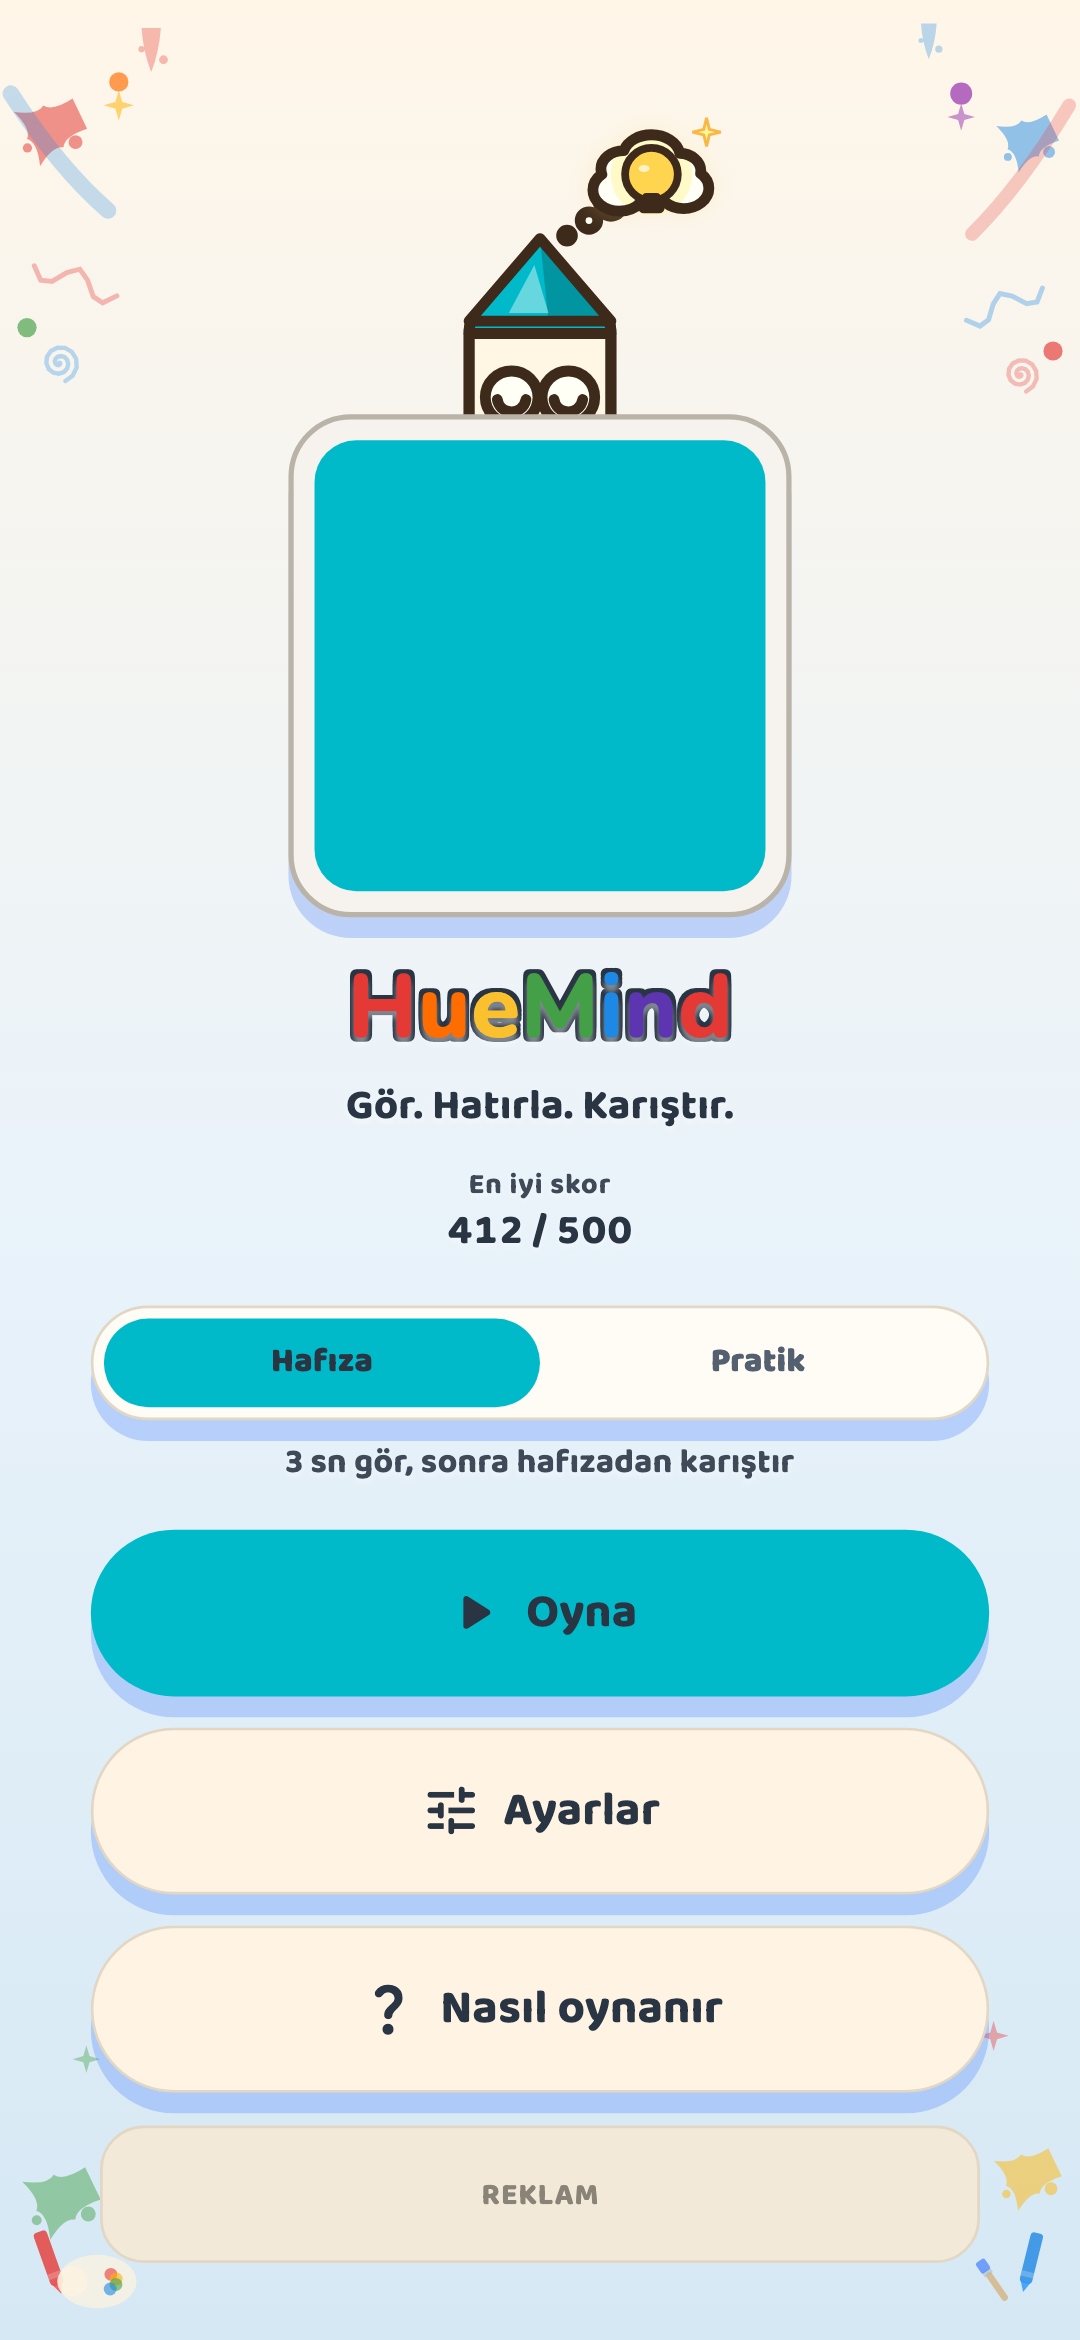
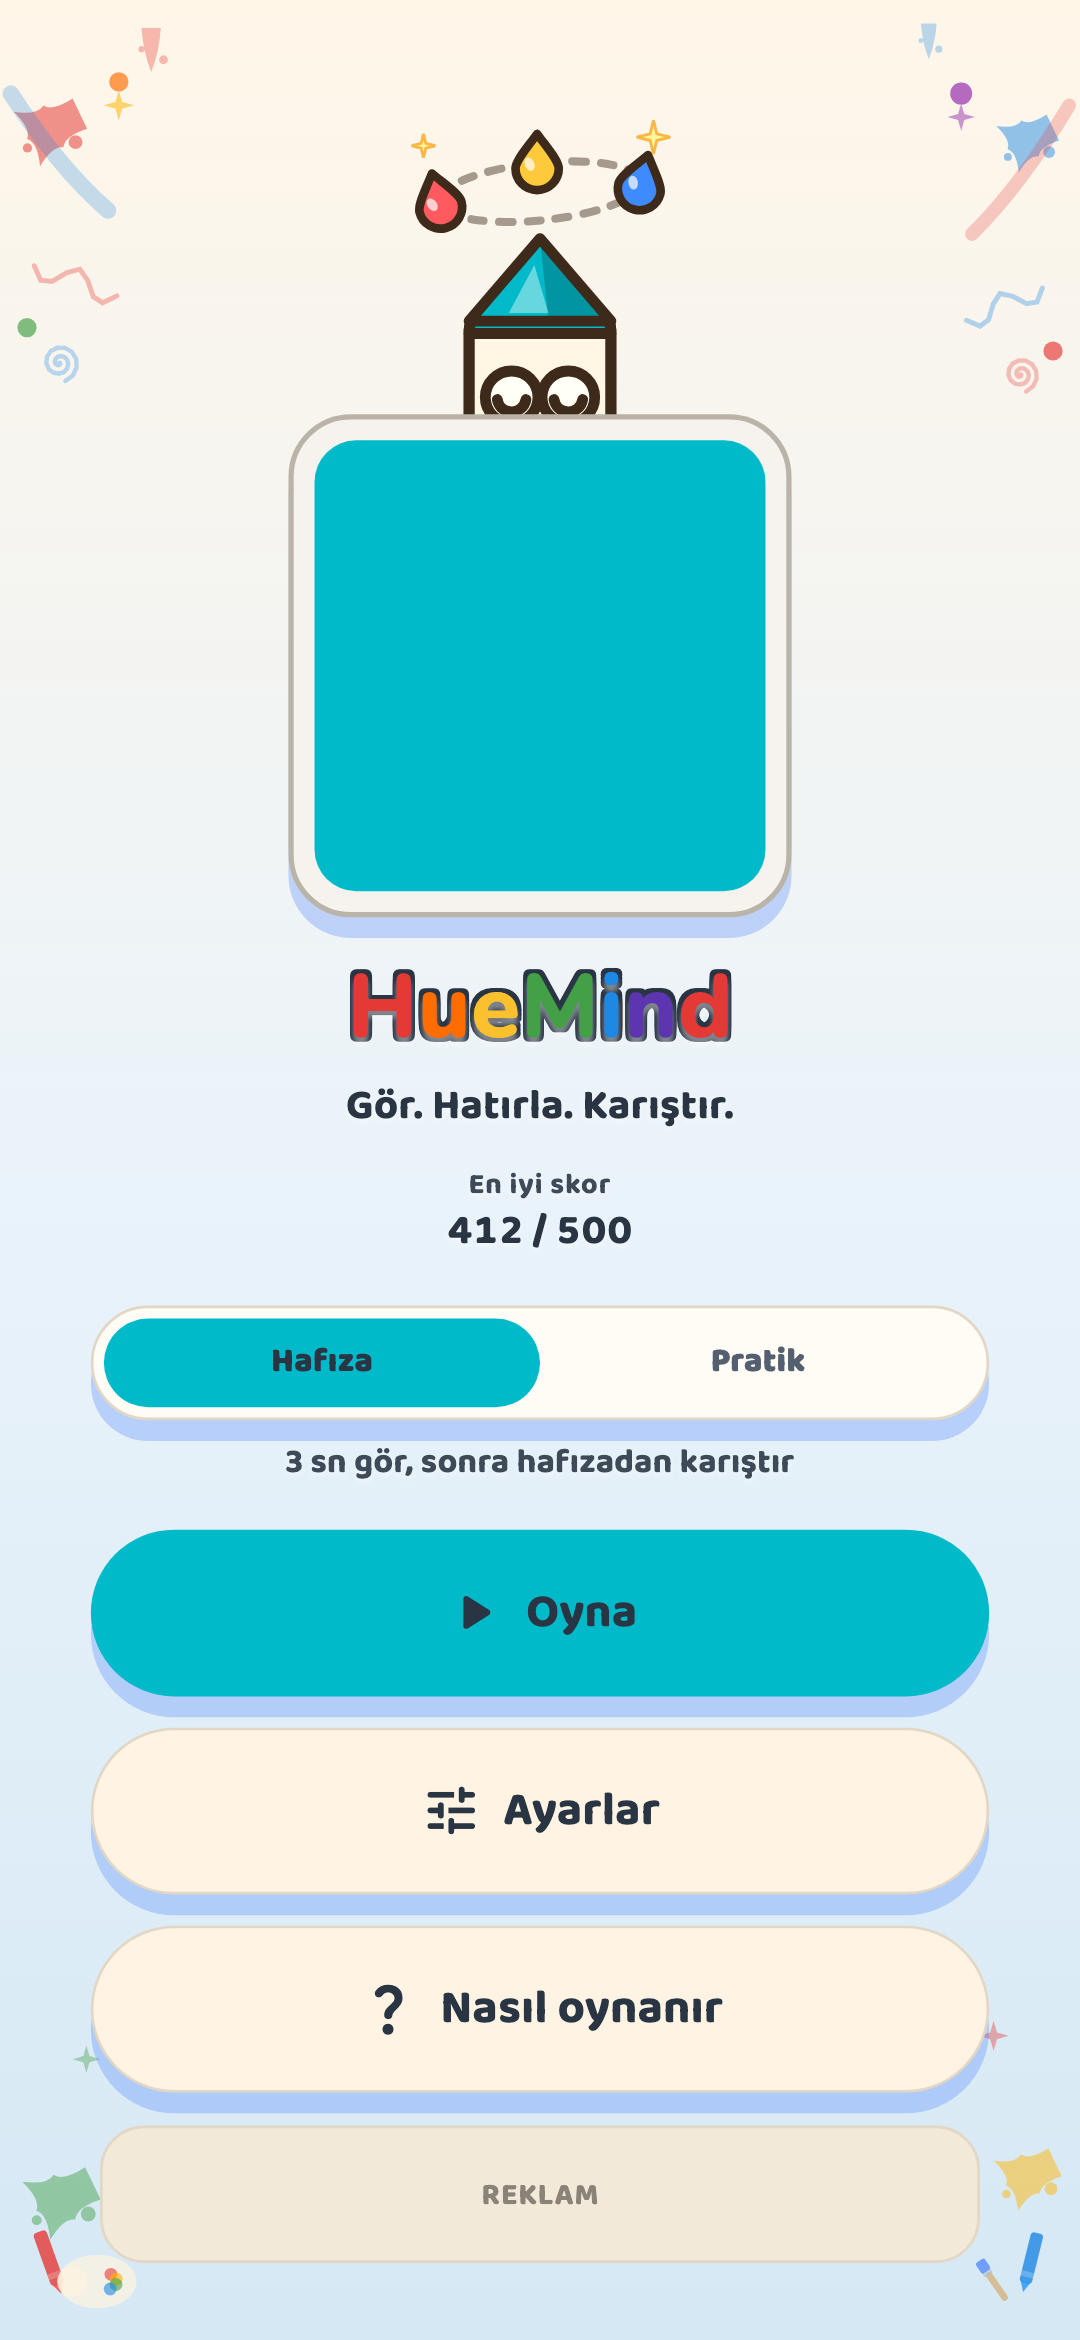
feat: colour-orbit mascot accent (replaces thought bubble)

Changed region(s): [[0.3667, 0.0312, 0.6722, 0.1248]]

diff --git a/lib/theme/mascot.dart b/lib/theme/mascot.dart
@@ -2,7 +2,7 @@
 ///
 /// Düşük skor yüzü asla kızgın değil: ince endişeli kaş, minik gülümseme, ter.
 /// Silüet: sağlam konik mum uç, dalgalı kâğıt sargı, uzun gövde, minik kollar.
-/// Ucun sağ-üstünde düşünce balonu: içinde küçük parlayan ampul.
+/// Ucun üstünde Renk Yörüngesi: kesik elips + kırmızı / sarı / mavi damla.
 library;
 
 import 'dart:math' as math;
@@ -44,8 +44,8 @@ class ThemeMascot extends StatelessWidget {
   final double size;
   final Color? bodyColor;
 
-  /// Silüete göre tuval — sağ-üstte düşünce balonu payı; home taşmadan bunu kullanır.
-  static Size canvasSize(double size) => Size(size * 1.20, size * 1.36);
+  /// Silüete göre tuval — uç üstünde renk yörüngesi; kollar ve el taşmaz.
+  static Size canvasSize(double size) => Size(size * 1.06, size * 1.36);
 
   @override
   Widget build(BuildContext context) {
@@ -62,7 +62,7 @@ class ThemeMascot extends StatelessWidget {
   }
 }
 
-/// Boya kalemi: sağlam konik uç, kâğıt sargı, dalgalı etiket, düşünce balonu.
+/// Boya kalemi: sağlam konik uç, kâğıt sargı, dalgalı etiket, renk yörüngesi.
 class CrayonBuddyPainter extends CustomPainter {
   CrayonBuddyPainter({required this.mood, required this.crayonSize, this.tint});
 
@@ -203,7 +203,7 @@ class CrayonBuddyPainter extends CustomPainter {
       handAt: bothArms ? null : Offset(right + w * 0.15, h * 0.62),
     );
 
-    _paintThoughtBubble(
+    _paintColourOrbit(
       canvas,
       tip: tipPeak,
       w: w,
@@ -253,7 +253,7 @@ class CrayonBuddyPainter extends CustomPainter {
     return Offset(cx, tipY);
   }
 
-  void _paintThoughtBubble(
+  void _paintColourOrbit(
     Canvas canvas, {
     required Offset tip,
     required double w,
@@ -264,59 +264,73 @@ class CrayonBuddyPainter extends CustomPainter {
   }) {
     final high = mood == MascotMood.happy;
     final low = mood == MascotMood.encouraging;
-    final outline = _inkStroke(ink, sw);
+    final cy = tip.dy - h * (low ? 0.10 : 0.125);
+    final cx = tip.dx;
+    final rx = w * (low ? 0.24 : 0.30);
+    final ry = w * (low ? 0.07 : 0.085);
+    final rot = low ? 0.12 : -0.10;
+    final dropR =
+        w *
+        (high
+            ? 0.064
+            : low
+            ? 0.05
+            : 0.058);
 
-    final trail = <(Offset, double)>[
-      (tip + Offset(w * 0.080, -h * 0.008), w * 0.016),
-      (tip + Offset(w * 0.145, -h * 0.048), w * 0.026),
-      (tip + Offset(w * 0.210, -h * 0.092), w * 0.036),
-    ];
-    const cloudFill = Color(0xFFFFFFF8);
-    for (final (c, r) in trail) {
-      canvas.drawCircle(c, r, Paint()..color = cloudFill);
-      canvas.drawCircle(c, r, outline);
+    canvas.save();
+    canvas.translate(cx, cy);
+    canvas.rotate(rot);
+    canvas.drawPath(
+      _dashedOval(
+        Rect.fromCenter(center: Offset.zero, width: rx * 2, height: ry * 2),
+        dash: sw * 1.2,
+        gap: sw * 1.4,
+      ),
+      Paint()
+        ..color = const Color(0x733E2A1A)
+        ..style = PaintingStyle.stroke
+        ..strokeWidth = sw * 0.75
+        ..strokeCap = StrokeCap.round
+        ..strokeJoin = StrokeJoin.round,
+    );
+    canvas.restore();
+
+    const red = Color(0xFFFF5A5F);
+    const yellow = Color(0xFFFFC93C);
+    const blue = Color(0xFF3D8BFF);
+    final drops = low
+        ? const [
+            (math.pi * 0.92, red, -0.2),
+            (math.pi * 0.40, yellow, 0.1),
+            (math.pi * 0.08, blue, 0.35),
+          ]
+        : const [
+            (math.pi * 1.0, red, -0.25),
+            (math.pi * 1.5, yellow, 0.0),
+            (math.pi * 0.02, blue, 0.25),
+          ];
+    final cosR = math.cos(rot);
+    final sinR = math.sin(rot);
+    for (final (angle, color, tilt) in drops) {
+      final ex = math.cos(angle) * rx;
+      final ey = math.sin(angle) * ry;
+      _paintOrbitDrop(
+        canvas,
+        x: cx + ex * cosR - ey * sinR,
+        y: cy + ex * sinR + ey * cosR,
+        r: dropR,
+        tilt: tilt,
+        fill: color,
+        ink: ink,
+        sw: sw,
+      );
     }
 
-    final cloudC = tip + Offset(w * 0.33, -h * 0.162);
-    final rw = w * 0.34;
-    final rh = w * 0.26;
-    final cloud = _scallopedCloud(cloudC, rw, rh);
-
-    final glow = low
-        ? const Color(0x33FFE082)
-        : high
-        ? const Color(0x66FFE082)
-        : const Color(0x44FFE082);
-    canvas.drawPath(
-      cloud,
-      Paint()
-        ..color = glow
-        ..maskFilter = MaskFilter.blur(
-          BlurStyle.normal,
-          high
-              ? 5.0
-              : low
-              ? 2.5
-              : 3.5,
-        ),
-    );
-    canvas.drawPath(cloud, Paint()..color = cloudFill);
-    _paintTinyBulb(
-      canvas,
-      center: cloudC + Offset(0, -rh * 0.04),
-      r: math.max(4.4, w * 0.078),
-      sw: sw,
-      ink: ink,
-      mood: mood,
-    );
-    canvas.drawPath(cloud, outline);
-
     if (high) {
-      _sparkle4(
-        canvas,
-        cloudC + Offset(rw * 0.48, -rh * 0.52),
-        math.max(3.2, w * 0.042),
-      );
+      _sparkle4(canvas, Offset(cx + rx * 1.12, cy - ry * 1.9), w * 0.05);
+      _sparkle4(canvas, Offset(cx - rx * 1.15, cy - ry * 1.6), w * 0.035);
+    } else if (!low) {
+      _sparkle4(canvas, Offset(cx + rx * 1.1, cy - ry * 1.7), w * 0.04);
     }
   }
 
@@ -583,102 +597,59 @@ void _sweatDrop(Canvas canvas, Offset c, double r, Paint stroke) {
   );
 }
 
-Path _scallopedCloud(Offset c, double rw, double rh) {
-  final bumps = <Rect>[
-    Rect.fromCenter(center: c, width: rw * 0.72, height: rh * 0.58),
-    Rect.fromCenter(
-      center: c + Offset(-rw * 0.28, rh * 0.14),
-      width: rw * 0.46,
-      height: rh * 0.48,
-    ),
-    Rect.fromCenter(
-      center: c + Offset(rw * 0.28, rh * 0.12),
-      width: rw * 0.44,
-      height: rh * 0.46,
-    ),
-    Rect.fromCenter(
-      center: c + Offset(0, -rh * 0.24),
-      width: rw * 0.50,
-      height: rh * 0.50,
-    ),
-    Rect.fromCenter(
-      center: c + Offset(-rw * 0.24, -rh * 0.10),
-      width: rw * 0.40,
-      height: rh * 0.42,
-    ),
-    Rect.fromCenter(
-      center: c + Offset(rw * 0.24, -rh * 0.08),
-      width: rw * 0.38,
-      height: rh * 0.40,
-    ),
-  ];
-  var path = Path()..addOval(bumps.first);
-  for (final oval in bumps.skip(1)) {
-    path = Path.combine(PathOperation.union, path, Path()..addOval(oval));
+Path _dashedOval(Rect oval, {required double dash, required double gap}) {
+  final source = Path()..addOval(oval);
+  final dest = Path();
+  for (final metric in source.computeMetrics()) {
+    var distance = 0.0;
+    var draw = true;
+    while (distance < metric.length) {
+      final next = math.min(distance + (draw ? dash : gap), metric.length);
+      if (draw) {
+        dest.addPath(metric.extractPath(distance, next), Offset.zero);
+      }
+      distance = next;
+      draw = !draw;
+    }
   }
-  return path;
+  return dest;
 }
 
-void _paintTinyBulb(
+void _paintOrbitDrop(
   Canvas canvas, {
-  required Offset center,
+  required double x,
+  required double y,
   required double r,
-  required double sw,
+  required double tilt,
+  required Color fill,
   required Color ink,
-  required MascotMood mood,
+  required double sw,
 }) {
-  final high = mood == MascotMood.happy;
-  final low = mood == MascotMood.encouraging;
-  final glass = low
-      ? const Color(0xFFF0D56A)
-      : high
-      ? const Color(0xFFFFD54F)
-      : const Color(0xFFFFE082);
-  final glow = low
-      ? const Color(0x44FFF59D)
-      : high
-      ? const Color(0x88FFF59D)
-      : const Color(0x66FFF59D);
-  canvas.drawCircle(
-    center,
-    r *
-        (high
-            ? 1.55
-            : low
-            ? 1.18
-            : 1.32),
-    Paint()..color = glow,
-  );
-  canvas.drawCircle(center, r, Paint()..color = glass);
-  canvas.drawCircle(center, r, _inkStroke(ink, math.max(1.5, sw * 0.72)));
+  canvas.save();
+  canvas.translate(x, y);
+  canvas.rotate(tilt);
+  final drop = Path()
+    ..moveTo(0, -1.35 * r)
+    ..cubicTo(0.55 * r, -0.6 * r, r, -0.1 * r, r, 0.25 * r)
+    ..arcTo(
+      Rect.fromCircle(center: Offset(0, 0.25 * r), radius: r),
+      0,
+      math.pi,
+      false,
+    )
+    ..cubicTo(-r, -0.1 * r, -0.55 * r, -0.6 * r, 0, -1.35 * r)
+    ..close();
+  canvas.drawPath(drop, Paint()..color = fill);
+  canvas.drawPath(drop, _inkStroke(ink, sw * 0.8));
+  canvas.save();
+  canvas.translate(-0.35 * r, 0.05 * r);
+  canvas.rotate(-0.4);
   canvas.drawOval(
-    Rect.fromCenter(
-      center: center + Offset(-r * 0.28, -r * 0.22),
-      width: r * 0.42,
-      height: r * 0.26,
-    ),
-    Paint()..color = Color(low ? 0x66FFFFFF : 0xAAFFFFFF),
+    Rect.fromCenter(center: Offset.zero, width: 0.44 * r, height: 0.64 * r),
+    Paint()..color = const Color(0xB3FFFFFF),
   );
-  final neck = RRect.fromRectAndRadius(
-    Rect.fromCenter(
-      center: center + Offset(0, r * 0.92),
-      width: r * 0.52,
-      height: r * 0.22,
-    ),
-    Radius.circular(r * 0.06),
-  );
-  final base = RRect.fromRectAndRadius(
-    Rect.fromCenter(
-      center: center + Offset(0, r * 1.18),
-      width: r * 0.78,
-      height: r * 0.38,
-    ),
-    Radius.circular(r * 0.10),
-  );
-  canvas.drawRRect(neck, Paint()..color = const Color(0xFFB8B0A4));
-  canvas.drawRRect(neck, _inkStroke(ink, math.max(1.1, sw * 0.5)));
-  canvas.drawRRect(base, Paint()..color = const Color(0xFF9E968A));
-  canvas.drawRRect(base, _inkStroke(ink, math.max(1.2, sw * 0.55)));
+  canvas.restore();
+  canvas.restore();
 }
 
 void _sparkle4(Canvas canvas, Offset c, double r) {

diff --git a/test/config/theme_test.dart b/test/config/theme_test.dart
@@ -32,11 +32,11 @@ void main() {
     expect(mascotMoodForScore(200, max: 500), MascotMood.encouraging);
   });
 
-  test('mascot canvas leaves room for the thought-bubble', () {
+  test('mascot canvas leaves room for the colour-orbit above the tip', () {
     const size = 88.0;
     final canvas = ThemeMascot.canvasSize(size);
-    expect(canvas.height, greaterThan(size));
-    expect(canvas.width, greaterThan(size));
+    expect(canvas.height, greaterThan(size * 1.30));
+    expect(canvas.width, inInclusiveRange(size, size * 1.12));
   });
 
   test('dark crayon tints are lifted, mid colours stay', () {

diff --git a/lib/config/tokens.dart b/lib/config/tokens.dart
@@ -115,7 +115,7 @@ abstract final class AppSizes {
   static const double mascotEnd = 152;
   static const double mascotHowTo = 104;
 
-  /// Home'da kare arkasına duran kalemin üstü (balon + uç + göz) bu kadar taşar.
+  /// Home'da kare arkasına duran kalemin üstü (yörünge + uç + göz) bu kadar taşar.
   static const double homeMascotPeekFraction = 0.84;
 
   static const double compareNotchWidth = 10;
